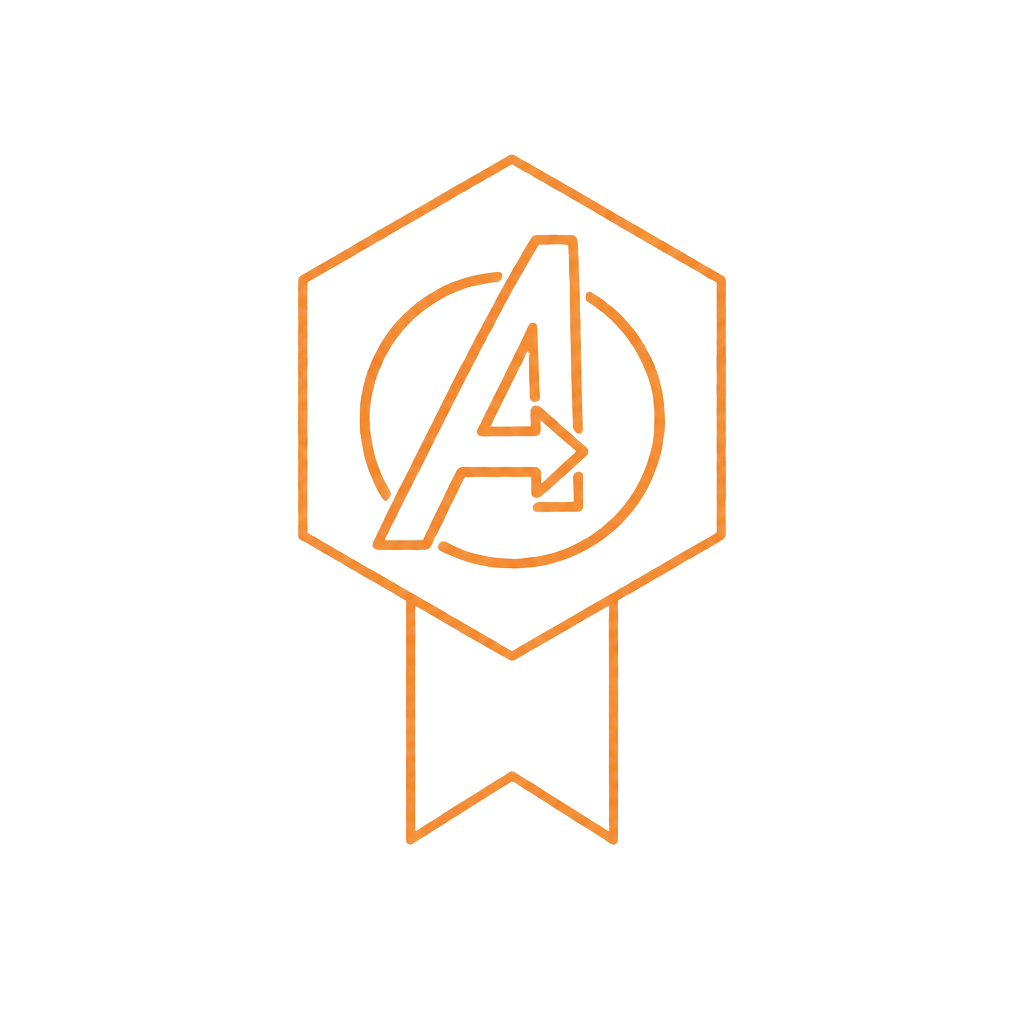
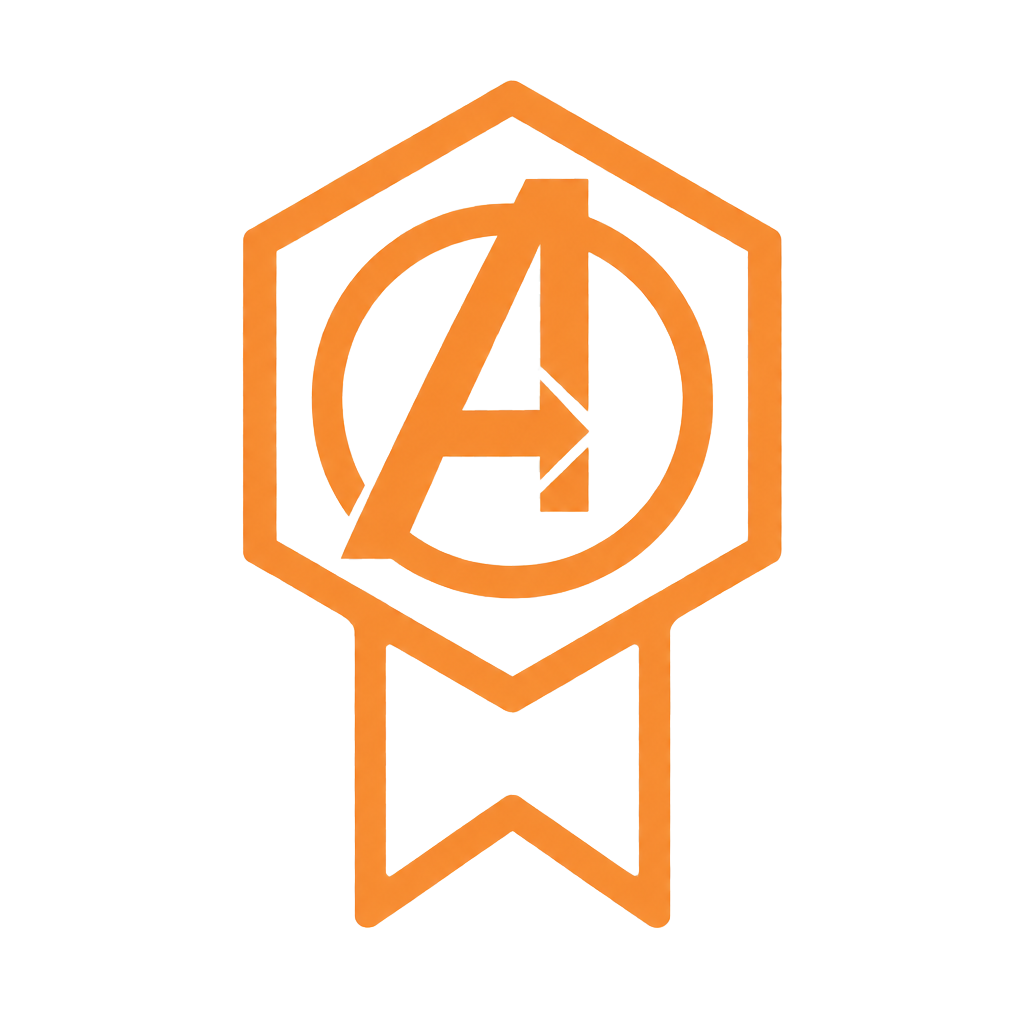
Changes

Changed region(s): [[0.2188, 0.0625, 0.7812, 0.9062]]

diff --git a/roadmap.md b/roadmap.md
@@ -1,4 +1,6 @@
-# Profile achievements
+# Badge sharpness
+- [x] Regenerate Marvel and Tolkien badges at high resolution and load them locally.
+- [ ] Render badges larger with thicker line art and verify on the profile.
 - [x] Add achievement cards below Quintuple and the two reference icons beside Friends.
 - [x] Add working See more views for achievements and recent reviews.
 - [x] Test saved-log progress and verify the profile flow in Quick view.
